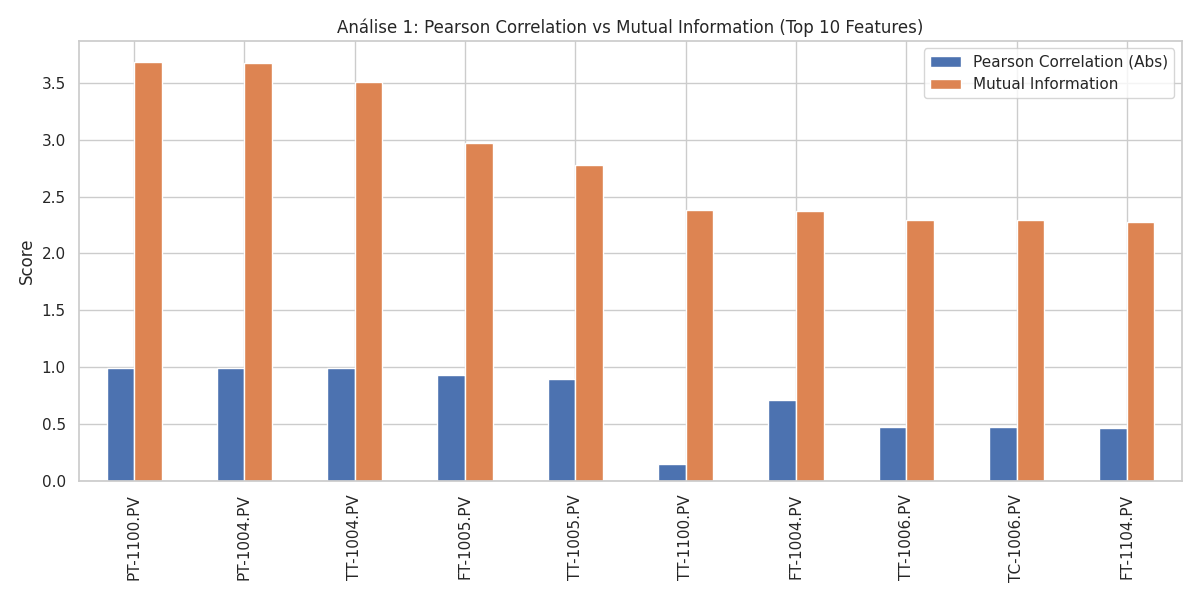
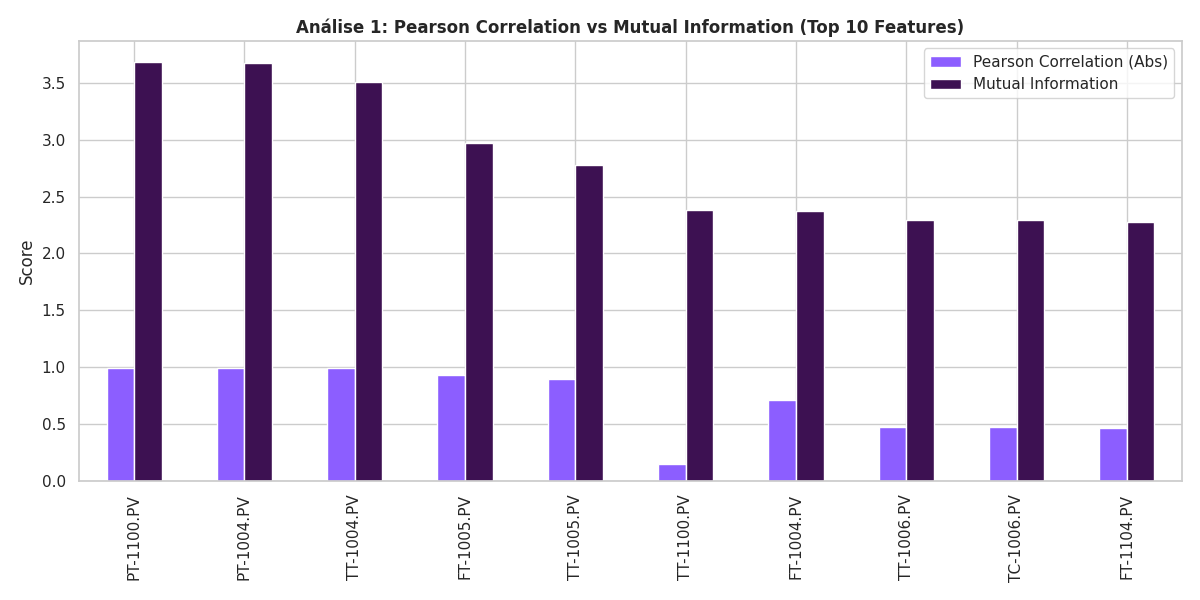
feat: add didactic EDA script for industrial dataset
- Rename `Data freme` to `dataset.csv` for standardized handling.
- Create `eda_industrial.py` to perform 3 crucial analyses:
  1. Pearson Correlation vs Mutual Information.
  2. Visual Scatter Plots of specific features requested by user.
  3. Linear Regression Residual Analysis.
- The script is heavily commented in Portuguese (PT-BR) to serve as a guide for validating Tree-based models over Linear Regression.
- Filter out `.SP` (Set Point) columns and handle specific CSV format.
- Include specific list of sensors for visual inspection (AT-1100.PV, FT-1004.PV, etc).
- Apply custom color palette (#3d1152) and bold titles.

Changed region(s): [[0.0925, 0.09, 0.9867, 0.81], [0.2467, 0.03, 0.8017, 0.06], [0.7708, 0.09, 0.8017, 0.15]]

diff --git a/eda_industrial.py b/eda_industrial.py
@@ -9,6 +9,11 @@ from sklearn.preprocessing import StandardScaler
 
 # Configuração de estilo visual
 sns.set_theme(style="whitegrid")
+# Paleta de cores personalizada
+PRIMARY_COLOR = '#3d1152'
+SECONDARY_COLOR = '#8c5eff' # Um roxo mais claro para contraste
+sns.set_palette([PRIMARY_COLOR, SECONDARY_COLOR])
+plt.rcParams['axes.titleweight'] = 'bold' # Títulos em negrito
 
 def carregar_e_limpar_dados(filepath):
     print("--- Carregando e Limpando Dados ---")
@@ -67,8 +72,9 @@ def analise_1_correlacao_vs_mutual_info(df, target_col):
 
     # Plotar
     plt.figure(figsize=(10, 6))
-    comparison.plot(kind='bar', figsize=(12, 6))
-    plt.title("Análise 1: Pearson Correlation vs Mutual Information (Top 10 Features)")
+    # Usando cores manuais para distinguir as duas métricas
+    ax = comparison.plot(kind='bar', figsize=(12, 6), color=[SECONDARY_COLOR, PRIMARY_COLOR])
+    plt.title("Análise 1: Pearson Correlation vs Mutual Information (Top 10 Features)", fontweight='bold')
     plt.ylabel("Score")
     plt.tight_layout()
     plt.savefig('analise_1_correlacao_vs_mi.png')
@@ -112,8 +118,8 @@ def analise_2_visual_scatter(df, target_col, top_features):
 
     for i, feature in enumerate(features_to_plot):
         plt.subplot(rows, cols, i+1)
-        sns.scatterplot(data=df, x=feature, y=target_col, alpha=0.5)
-        plt.title(f"{feature} vs {target_col}")
+        sns.scatterplot(data=df, x=feature, y=target_col, alpha=0.5, color=PRIMARY_COLOR)
+        plt.title(f"{feature} vs {target_col}", fontweight='bold')
         plt.xlabel(feature)
         plt.ylabel(target_col)
 
@@ -147,16 +153,16 @@ def analise_3_residuos_linear(df, target_col):
     plt.figure(figsize=(12, 5))
 
     plt.subplot(1, 2, 1)
-    sns.scatterplot(x=y, y=y_pred, alpha=0.5)
-    plt.plot([y.min(), y.max()], [y.min(), y.max()], 'r--')
-    plt.title("Real vs Predito (Linear Regression)")
+    sns.scatterplot(x=y, y=y_pred, alpha=0.5, color=PRIMARY_COLOR)
+    plt.plot([y.min(), y.max()], [y.min(), y.max()], color=SECONDARY_COLOR, linestyle='--')
+    plt.title("Real vs Predito (Linear Regression)", fontweight='bold')
     plt.xlabel("Real")
     plt.ylabel("Predito")
 
     plt.subplot(1, 2, 2)
-    sns.scatterplot(x=y_pred, y=residuals, alpha=0.5)
-    plt.axhline(0, color='r', linestyle='--')
-    plt.title("Resíduos vs Predito")
+    sns.scatterplot(x=y_pred, y=residuals, alpha=0.5, color=PRIMARY_COLOR)
+    plt.axhline(0, color=SECONDARY_COLOR, linestyle='--')
+    plt.title("Resíduos vs Predito", fontweight='bold')
     plt.xlabel("Predito")
     plt.ylabel("Resíduos (Erro)")
 
